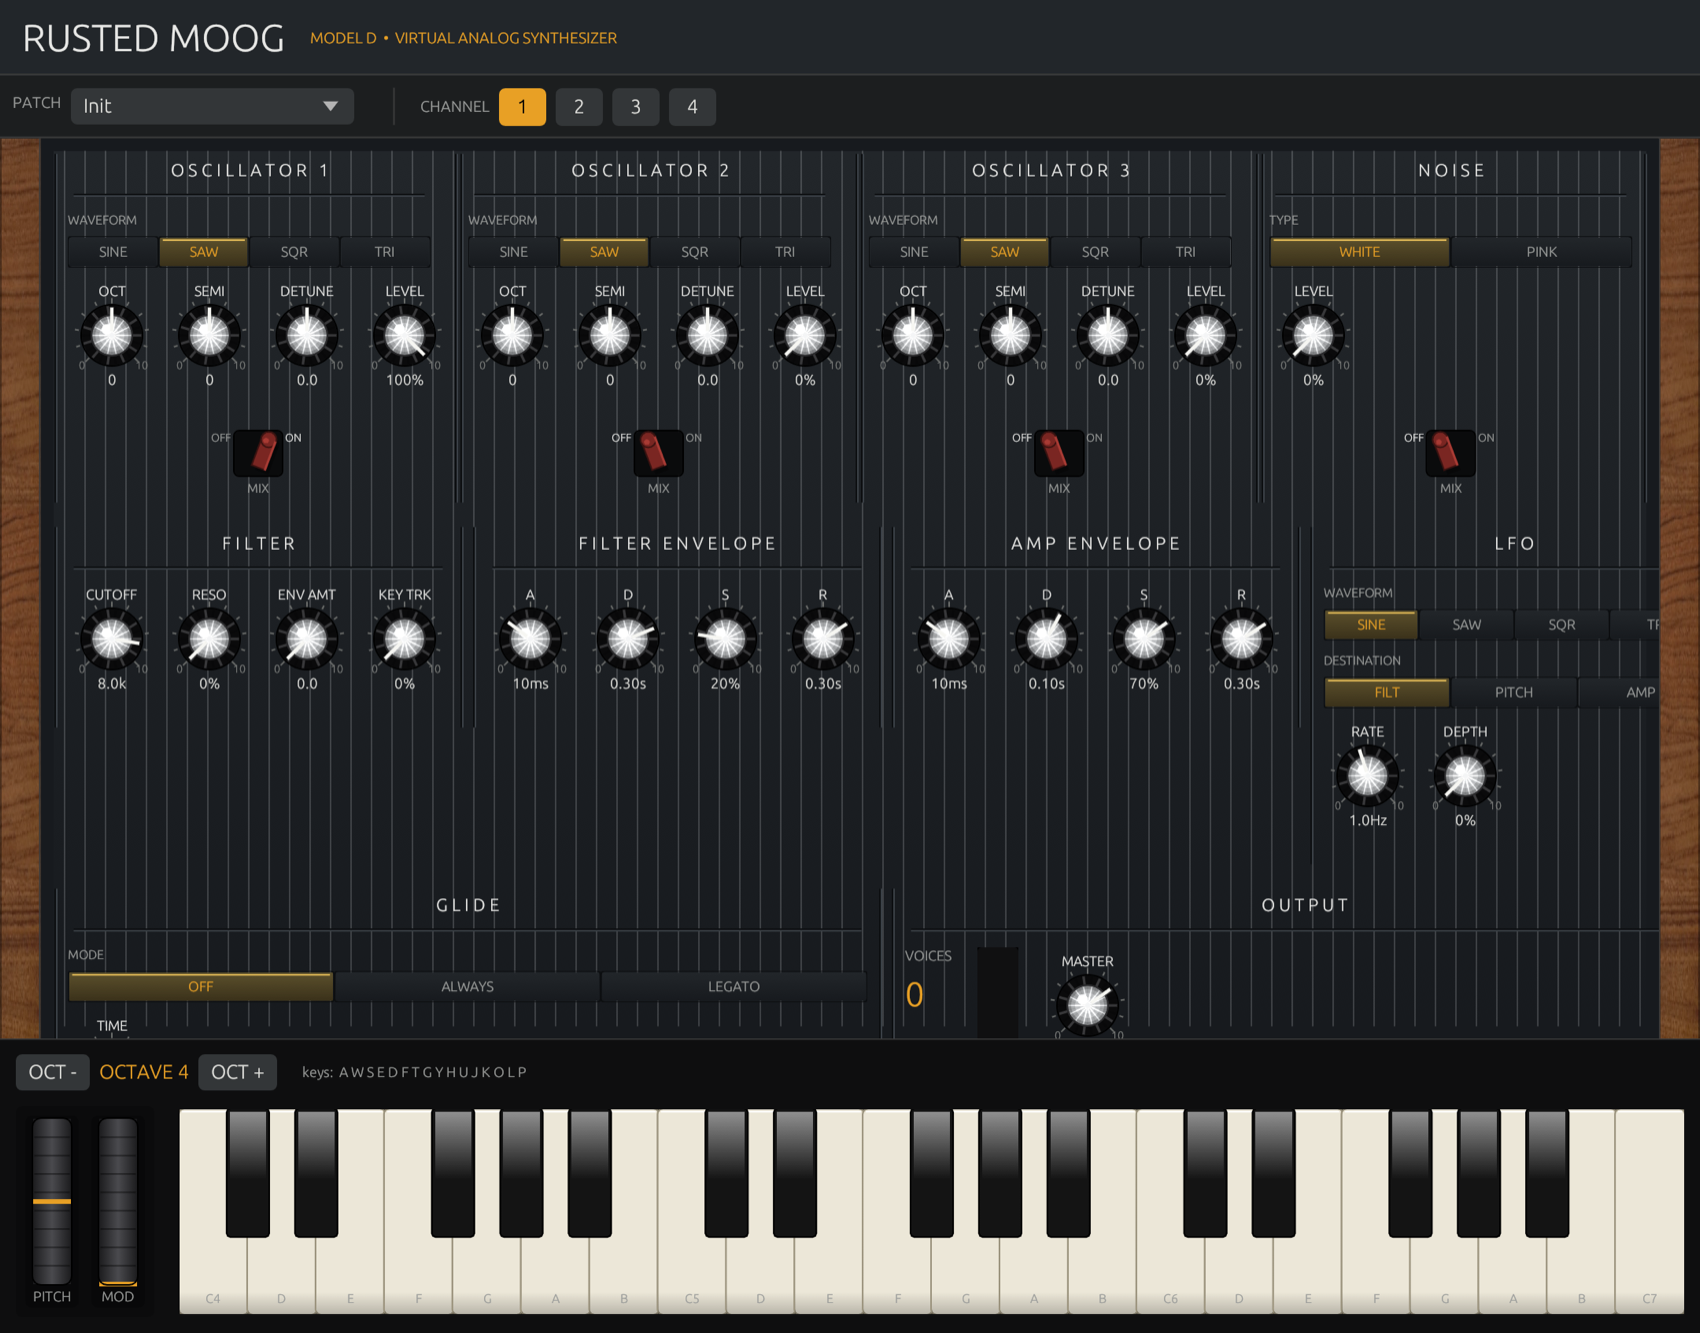
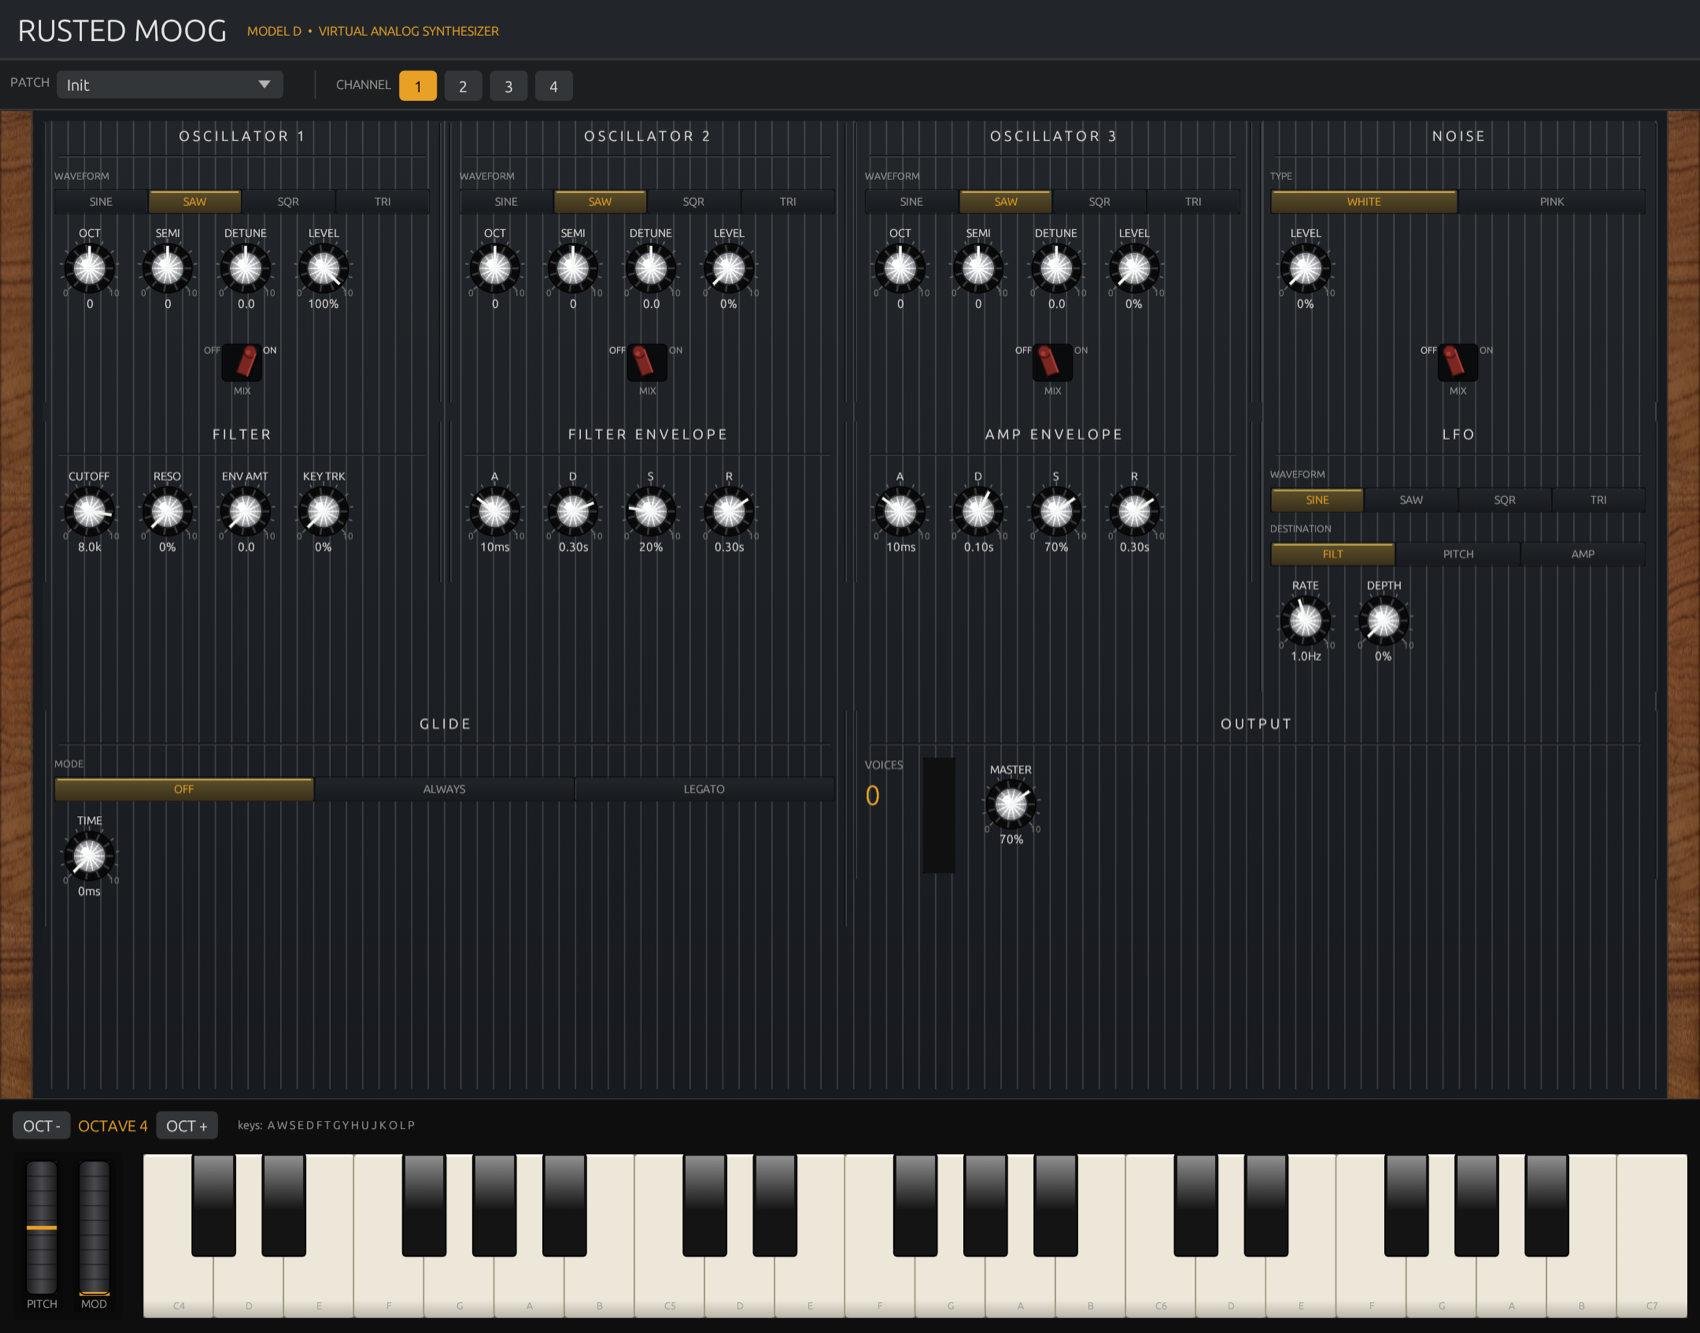
Fix hero screenshot: full panel visible (GLIDE TIME + OUTPUT); shot-mode UI zoom fits short capture displays

Changed region(s): [[0.0, 0.0, 1.0, 1.0], [0.9041, 0.4614, 0.9353, 0.4921]]

diff --git a/crates/voog/src/gui.rs b/crates/voog/src/gui.rs
@@ -754,6 +754,12 @@ impl App {
     ) -> Self {
         Self::install_theme(&cc.egui_ctx);
         let wood_tex = load_wood(&cc.egui_ctx);
+        let shot_path = std::env::var("VOOG_SHOT").ok();
+        if shot_path.is_some() {
+            // Screenshot mode: shrink the UI slightly so the entire panel fits the
+            // capture window even on a short display (the normal app is unaffected).
+            cc.egui_ctx.set_zoom_factor(0.8);
+        }
         let patch = Patch::default();
         let mut app = Self {
             tx,
@@ -774,7 +780,7 @@ impl App {
             vu_db: -60.0,
             peak_db: -60.0,
             wood_tex,
-            shot_path: std::env::var("VOOG_SHOT").ok(),
+            shot_path,
             shot_frame: 0,
         };
         app.sync_shadows();
@@ -1585,8 +1591,8 @@ pub fn run(tx: EventSender, shared: Arc<SharedState>, presets: Vec<Patch>) -> ef
     let options = eframe::NativeOptions {
         viewport: egui::ViewportBuilder::default()
             .with_title("Rusted Moog")
-            .with_inner_size([1080.0, 940.0])
-            .with_min_inner_size([860.0, 720.0]),
+            .with_inner_size([1080.0, 1010.0])
+            .with_min_inner_size([860.0, 760.0]),
         ..Default::default()
     };
     eframe::run_native(